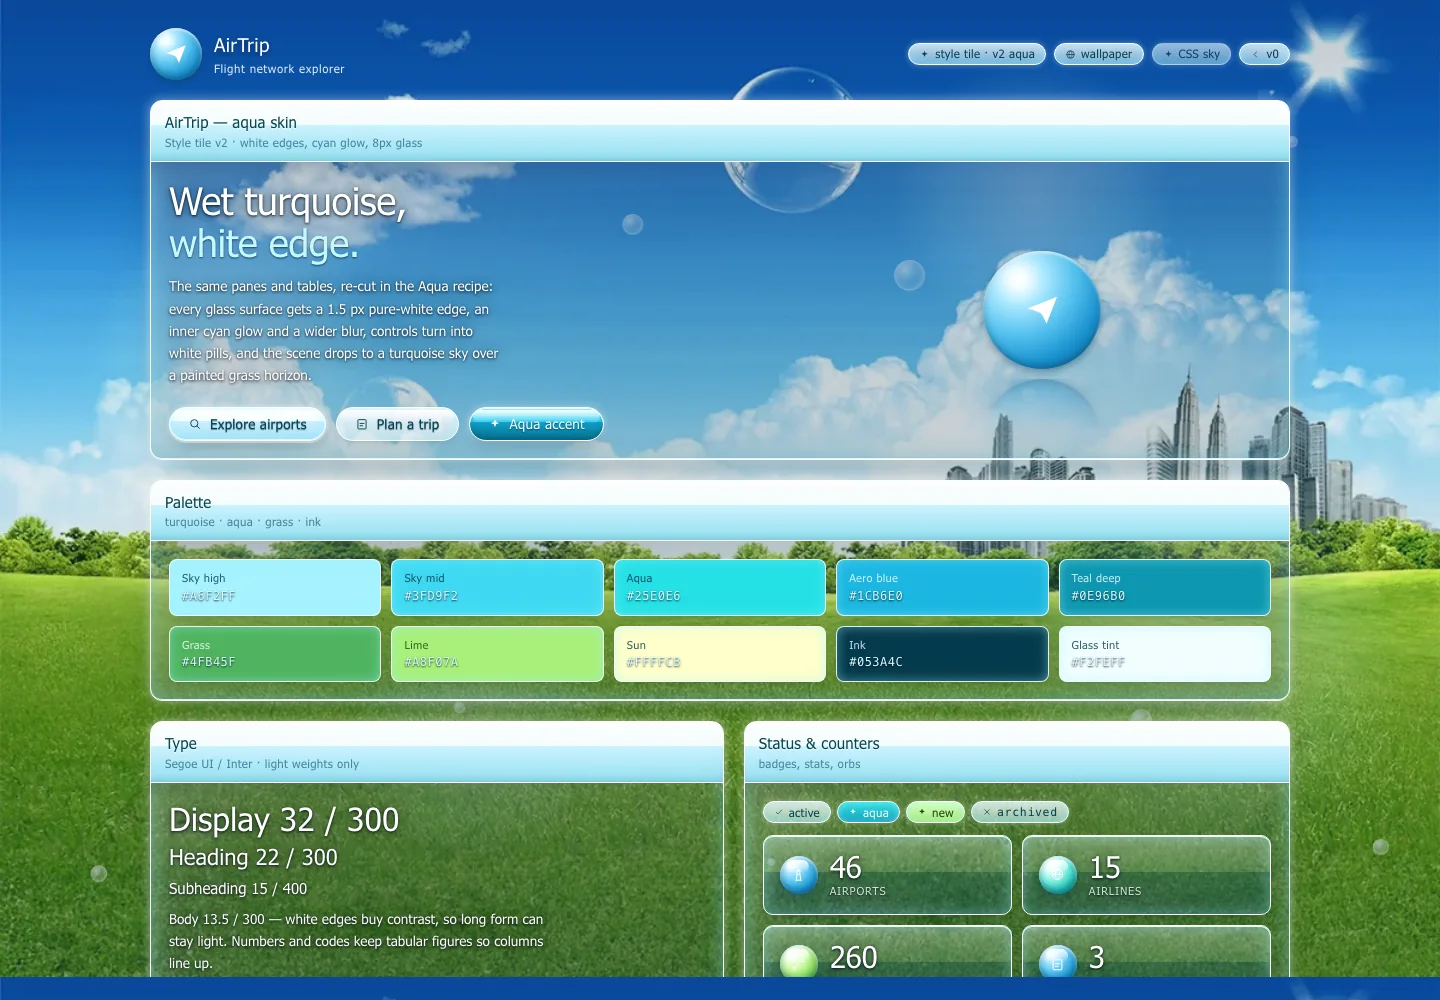
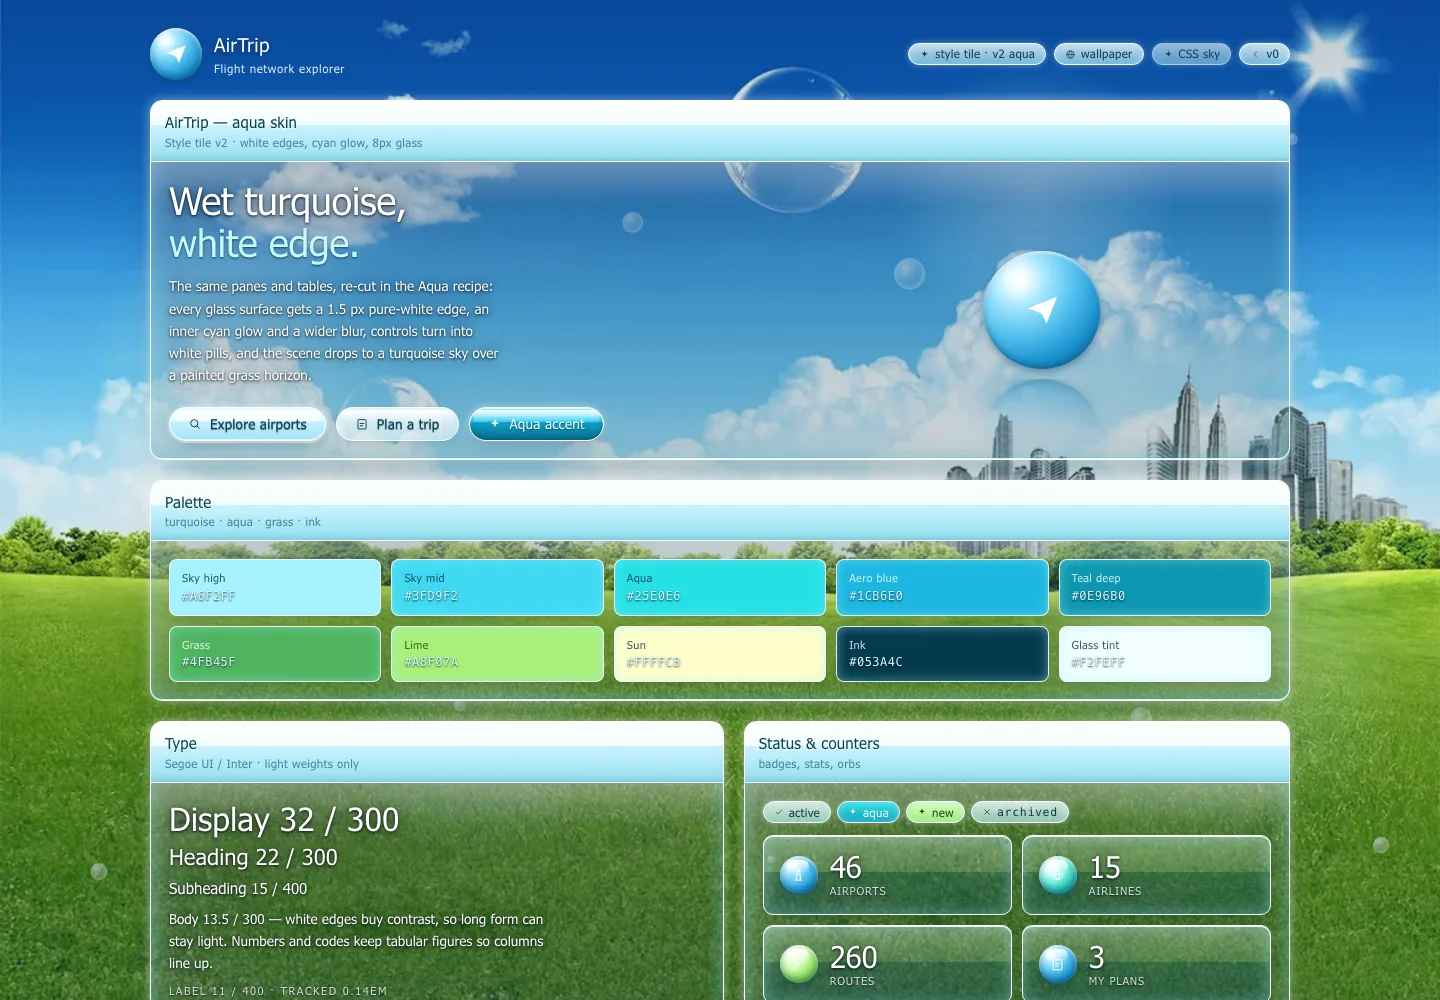
Fold the contrast veil into the pane background
The veil used a negative-z pseudo element on an isolated stacking context, which
is a compositing path that can render differently across engines. It now lives
as the first background layer of .win itself, and the data panes go back to a
45% fill so the tables keep their frosted look.

diff --git a/airtrip-web/src/styles/theme-aqua.css b/airtrip-web/src/styles/theme-aqua.css
@@ -138,31 +138,14 @@
 [data-theme='aqua']:not([data-wallpaper='on']) .win-dense {
   background:
     linear-gradient(180deg, rgba(255, 255, 255, 0.14) 0%, rgba(255, 255, 255, 0.04) 32%, rgba(255, 255, 255, 0.01) 100%),
-    rgba(3, 30, 45, 0.38);
-}
-
-/* A very clear pane cannot guarantee contrast on its own: the wallpaper has
-   bright clouds. This soft veil sits behind the content only, so the type keeps
-   a darker bed while the edges of the pane stay fully transparent. */
-[data-theme='aqua'] .win-body {
-  position: relative;
-  isolation: isolate;
-}
-
-[data-theme='aqua'] .win-body::before {
-  content: '';
-  position: absolute;
-  inset: 0;
-  z-index: -1;
-  pointer-events: none;
-  background:
-    radial-gradient(120% 90% at 0% 0%, rgba(2, 20, 34, 0.16) 0%, rgba(2, 20, 34, 0.05) 44%, rgba(2, 20, 34, 0) 72%);
+    rgba(3, 30, 45, 0.5);
 }
 
 /* ---------- glass ---------- */
 
 [data-theme='aqua'] .win {
   background:
+    radial-gradient(120% 90% at 0% 0%, rgba(2, 20, 34, 0.16) 0%, rgba(2, 20, 34, 0.05) 44%, rgba(2, 20, 34, 0) 72%),
     linear-gradient(112deg, rgba(255, 255, 255, 0.18) 0%, rgba(255, 255, 255, 0.04) 22%, rgba(255, 255, 255, 0) 44%),
     linear-gradient(180deg, rgba(255, 255, 255, 0.2) 0%, rgba(255, 255, 255, 0.06) 26%, rgba(255, 255, 255, 0.01) 60%, rgba(255, 255, 255, 0.04) 100%),
     var(--glass-fill);
@@ -181,7 +164,7 @@
 [data-theme='aqua'] .win-dense {
   background:
     linear-gradient(180deg, rgba(255, 255, 255, 0.16) 0%, rgba(255, 255, 255, 0.04) 32%, rgba(255, 255, 255, 0.01) 100%),
-    rgba(4, 38, 55, 0.30);
+    rgba(4, 38, 55, 0.45);
 }
 
 [data-theme='aqua'] .win-bar {
